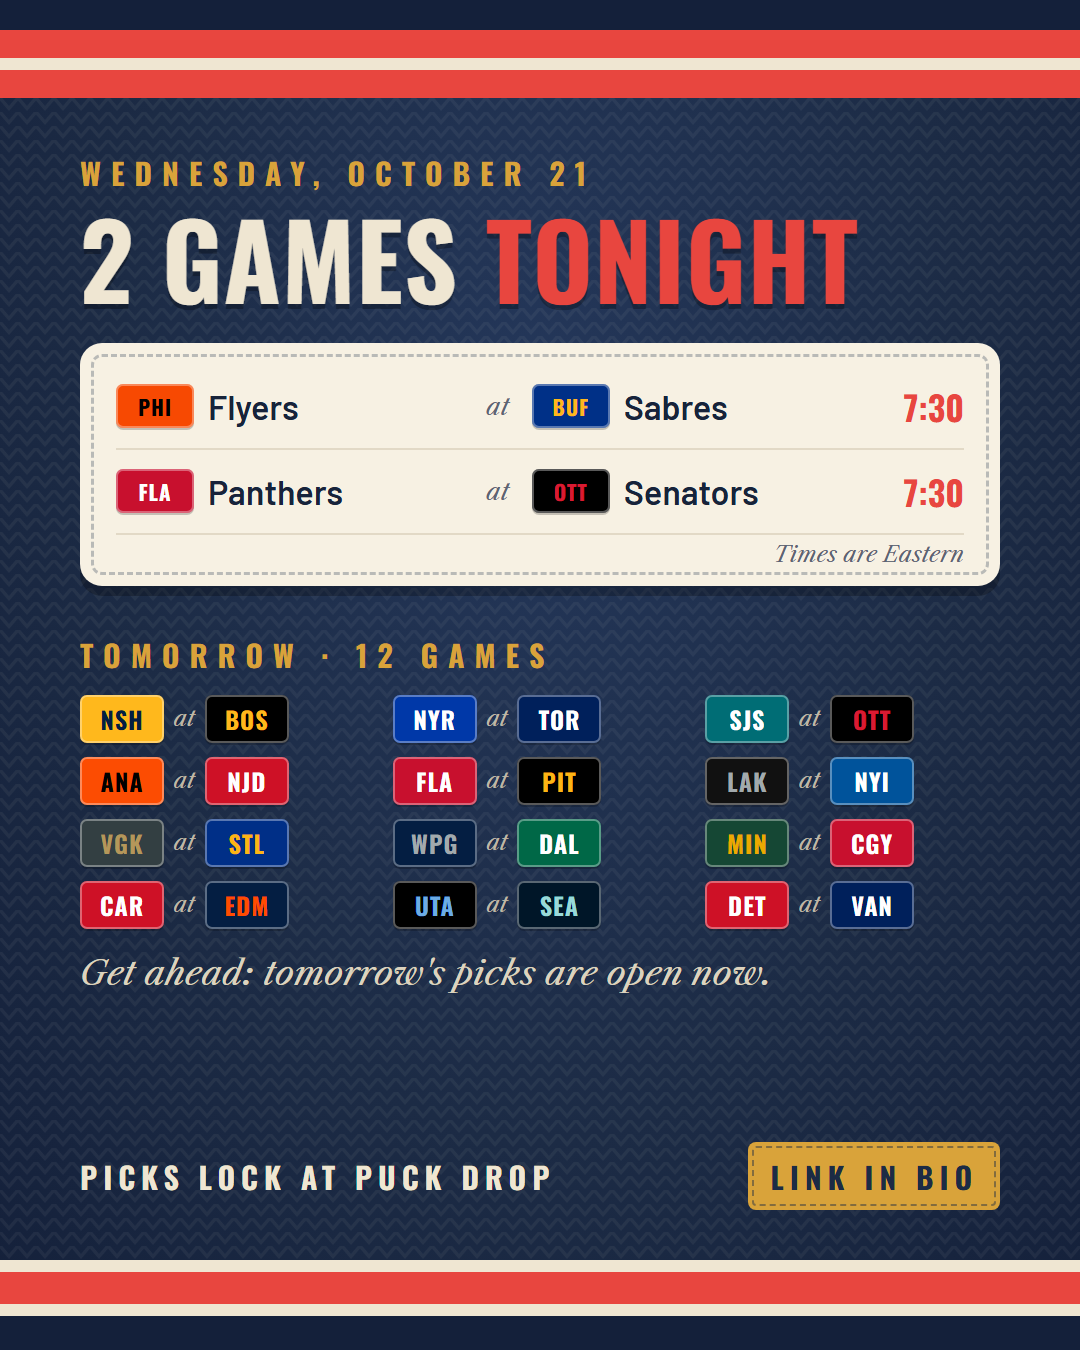
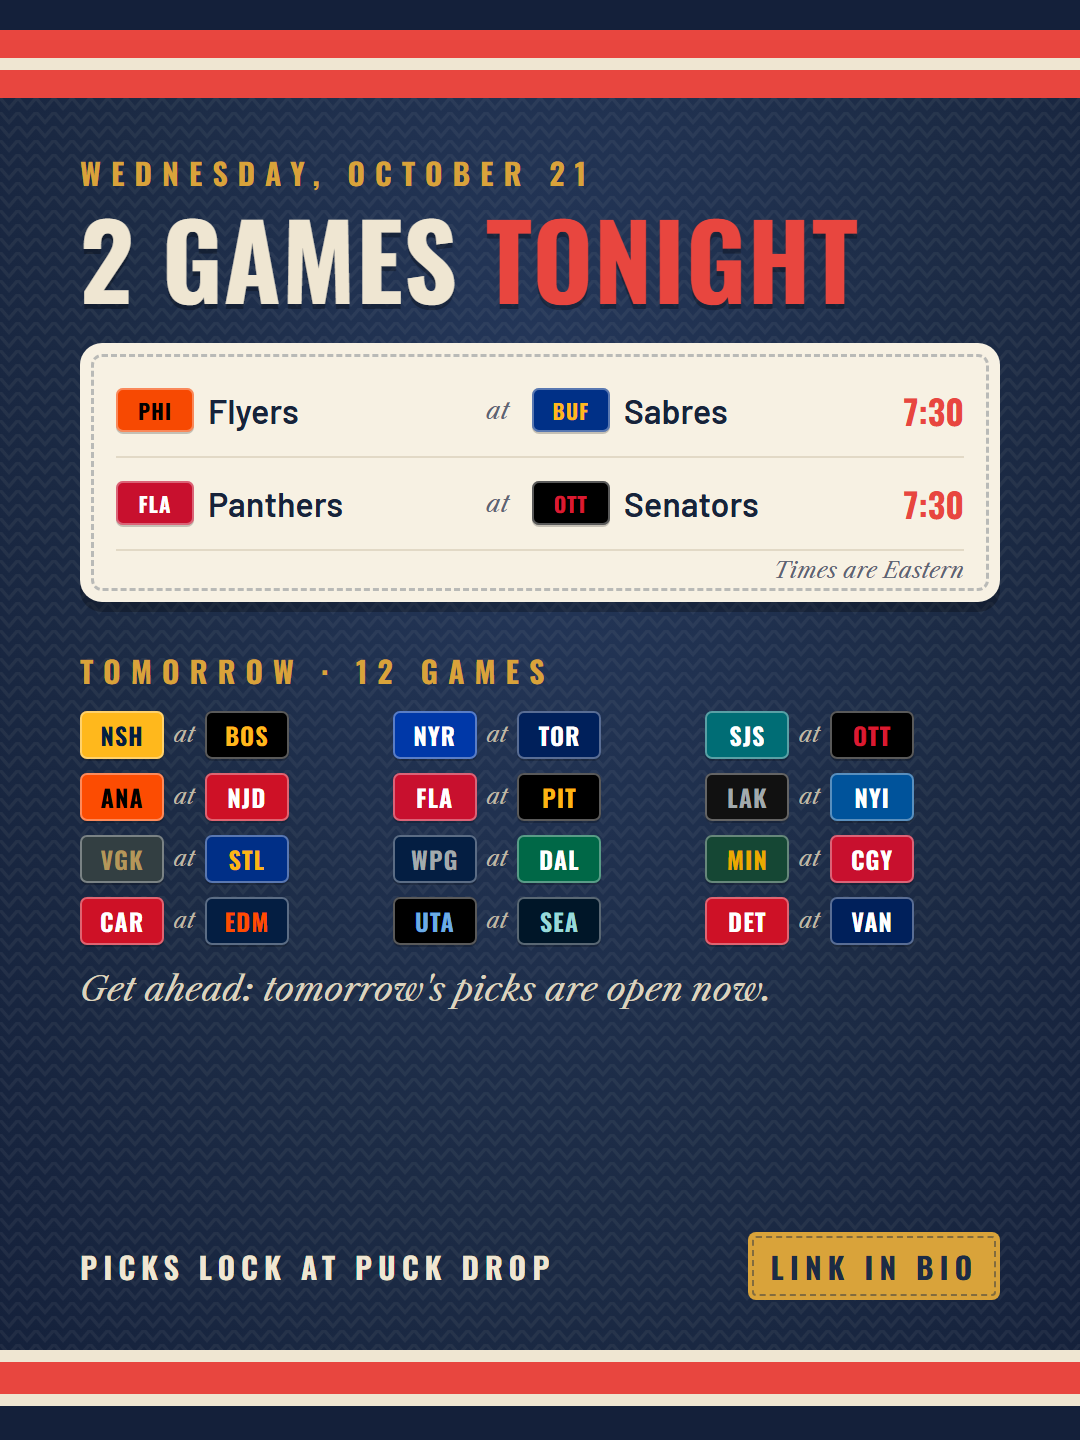
Insta sizing update

diff --git a/marketing/instagram/build.py b/marketing/instagram/build.py
@@ -5,7 +5,7 @@
     python marketing/instagram/build.py pressbox 26.2          # a Press Box picture for that update (from pressbox.js)
 
 Each picture is an HTML page rendered to PNG with headless Microsoft Edge at Instagram's sizes:
-posts 1080x1350 (4:5), Stories and Reel covers 1080x1920.
+posts 1080x1440 (3:4, Instagram's grid shape), Stories and Reel covers 1080x1920.
 
 Look ("road sweater"): navy knit background, red-and-cream sleeve stripes across the top, hem stripes at the bottom,
 the logo in cream, cream felt-patch cards with stitched edges, gold accents, the site's own badge art and team colours.
@@ -73,7 +73,7 @@ h1 em{font-style:normal;color:var(--red2)}
 FONTS = ('<link rel="stylesheet" href="https://fonts.googleapis.com/css2?family=Oswald:wght@500;600;700'
          '&family=Barlow:wght@500;600;700&family=Libre+Caslon+Text:ital@1&family=Yellowtail&display=block">')
 
-def page(body, w=1080, h=1350, extra=""):
+def page(body, w=1080, h=1440, extra=""):
     return (f'<!doctype html><html><head><meta charset="utf-8">{FONTS}<style>' + CSS % {"w": w, "h": h, "knit": KNIT}
             + extra + f'</style></head><body><div class="top"></div>{body}<div class="bot"></div></body></html>')
 
@@ -85,7 +85,7 @@ def edge(args, timeout=60):
     except subprocess.TimeoutExpired:
         return None
 
-def render(name, html, w=1080, h=1350):
+def render(name, html, w=1080, h=1440):
     os.makedirs(OUT, exist_ok=True)
     src = os.path.join(OUT, f"_{name}.html")
     open(src, "w", encoding="utf-8").write(html)
@@ -232,7 +232,7 @@ def gamenight(date):
     d = datetime.date.fromisoformat(date)
     n = len(games)
     size = 34 if n <= 8 else 31 if n <= 11 else 29 if n <= 13 else 25
-    pad = 16 if n <= 6 else 10 if n <= 9 else 7 if n <= 13 else 5
+    pad = 20 if n <= 6 else 14 if n <= 9 else 11 if n <= 13 else 8   # sized for the 3:4 (1080x1440) post
     rows = []
     for g in games:
         t = eastern(datetime.datetime.fromisoformat(g["startTimeUTC"].replace("Z", "+00:00")))

diff --git a/CLAUDE.md b/CLAUDE.md
@@ -48,7 +48,7 @@ Owner is not a professional developer: explain changes in plain language, and sa
 | `pressbox.html` | **Press Box**: the public list of site updates, newest first (one card per version; named updates get the script title and a gold edge). Opening it stores the newest version in localStorage `stickpicks-pressbox-seen`. Linked from every page's footer (Rules · Privacy · Press Box · Contact). |
 | `pressbox.js` | `PRESS_BOX`: the Press Box entries (version, name, date, intro, `[tag, text]` items). Add new ones at the top; rules in `UPDATES.md`. `PRESS_BOX_LATEST` in `teams.js` must equal the newest version (`markPressBox()` puts a red New dot on the footer link for returning players who haven't seen it). |
 | `UPDATES.md` | The Press Box style guide: version numbers, which pushes get an entry (all player-visible ones), wording rules, the release routine, and the social media accounts that get a drafted post per entry. Checked before deploy by `check_pressbox()` in `scripts/check_site.py`. |
-| `marketing/` | Outreach assets, never deployed. Instagram (@stickpicks.hockey): `marketing/instagram/build.py` makes the pictures (1080x1350 posts, 1080x1920 Stories; `python marketing/instagram/build.py gamenight YYYY-MM-DD` makes a game-night picture from the NHL schedule; `... pressbox 26.2` makes a Press Box picture from `pressbox.js`), `kit.py` writes `stickpicks-instagram-starter-kit.html`. Also: `bluesky-banner.html` → `bluesky-banner.png` (1500x500) and `og-image.html` → the site's `/og-image.png` (1200x630), same design. Render with headless Edge: `--headless=new --window-size=W,H --screenshot=...` at the image's size. On the banner keep the bottom-left clear (Bluesky's avatar covers it). |
+| `marketing/` | Outreach assets, never deployed. Instagram (@stickpicks.hockey): `marketing/instagram/build.py` makes the pictures (1080x1440 (3:4) posts, 1080x1920 Stories; `python marketing/instagram/build.py gamenight YYYY-MM-DD` makes a game-night picture from the NHL schedule; `... pressbox 26.2` makes a Press Box picture from `pressbox.js`), `kit.py` writes `stickpicks-instagram-starter-kit.html`. Also: `bluesky-banner.html` → `bluesky-banner.png` (1500x500) and `og-image.html` → the site's `/og-image.png` (1200x630), same design. Render with headless Edge: `--headless=new --window-size=W,H --screenshot=...` at the image's size. On the banner keep the bottom-left clear (Bluesky's avatar covers it). |
 | `scripts/update-games.mjs` | Syncs all 32 schedules + scores from the NHL feed into `games`, and ESPN headlines into `news`. |
 | `supabase/schema.sql` | Entire database: tables, row-level security, grants, functions. |
 | `supabase/migrate-from-kraken-version.sql` | One-time legacy migration. Leave alone. |

diff --git a/UPDATES.md b/UPDATES.md
@@ -120,7 +120,7 @@ Draft one post per social media account for **every** new entry. Accounts today:
 | Account | Limit | Link tag |
 |---|---|---|
 | Bluesky · @stickpicks.hockey | 300 characters (link and emoji included) | `?ref=bluesky` |
-| Instagram · @stickpicks.hockey | 2,200-character caption; **needs a picture** (1080×1350); links in captions don't work, so say "link in bio" | `?ref=instagram` (the profile link) |
+| Instagram · @stickpicks.hockey | 2,200-character caption; **needs a picture** (1080×1440, 3:4, Instagram's grid shape); links in captions don't work, so say "link in bio" | `?ref=instagram` (the profile link) |
 
 When a new account is added (Instagram, Threads, X, TikTok…), add a row here with its limit and its own `?ref=` tag,
 and draft for it from then on.
